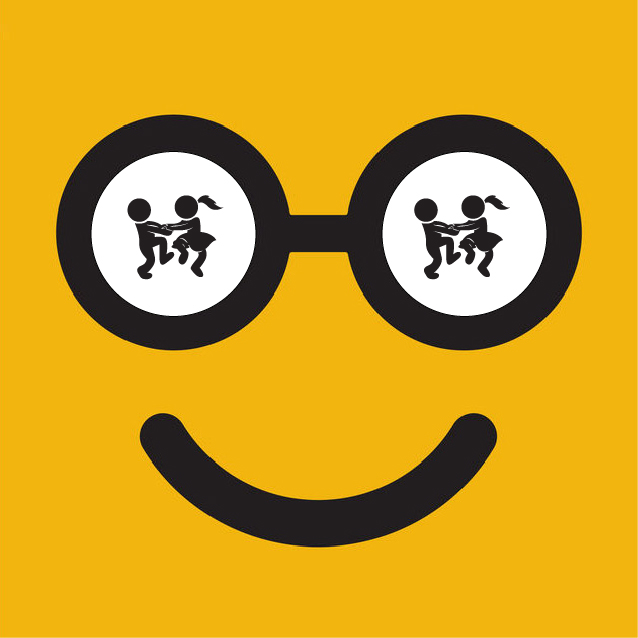
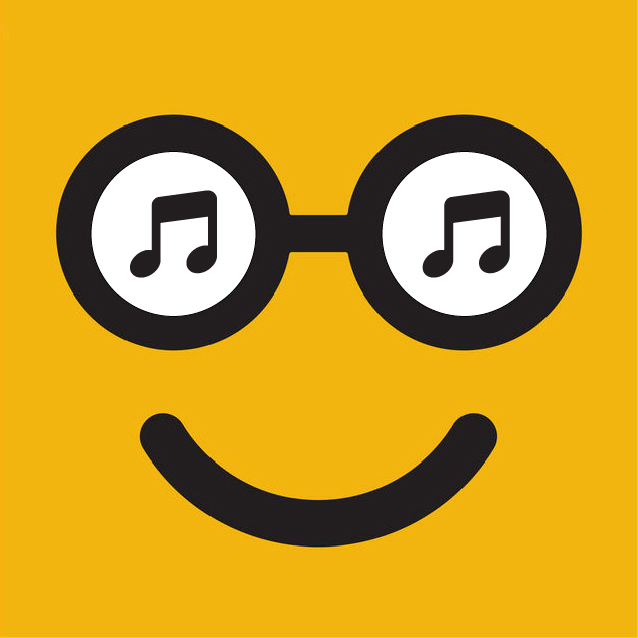
updated faces in client

Changed region(s): [[0.1787, 0.2978, 0.3574, 0.4467], [0.6552, 0.2978, 0.8041, 0.4467]]

diff --git a/server/client/main.html b/server/client/main.html
@@ -9,6 +9,13 @@
   </div>
   {{> main}}
 
+
+      <div class="img-wrap show-together">
+        <img src="faces-01.jpg" class='together'/>
+        <img src="faces-02.jpg" class='lift'/>
+        <img src="faces-03.jpg" class='dance'/>
+      </div>
+
   <div id='footer'>
     2016  - Team Pizza Runner
   </div>
@@ -33,8 +40,10 @@
         <p>Status: offline{{#if status.lastLogin}}, last seen {{lastOnline}} ({{status.lastLogin.ipAddr}}){{/if}}
         <span class='offline-icon'></span></p>
       {{/if}}
-      <div class="img-wrap">
-        <img src="faces-02.jpg" />
+      <div class="img-wrap show-together">  <!-- toggle 'show-together'/'show-lift'/'show-dance' class to the right face -->
+        <img src="faces-01.jpg" class='together'/>
+        <img src="faces-02.jpg" class='lift'/>
+        <img src="faces-03.jpg" class='dance'/>
       </div>
     </div>
     <div class='message slideDown fadeOut'> <!-- toggle 'fadeOut' class to hide and show -->

diff --git a/server/client/main.css b/server/client/main.css
@@ -101,6 +101,22 @@ h2 + p {
 	background: red;
 	border-radius: 8px;
 }
+.img-wrap img {
+	display: none;
+}
+.img-wrap.show-together img.together {
+	display:block;
+}
+
+.img-wrap.show-lift img.lift {
+	display:block;
+}
+
+.img-wrap.show-dance img.dance {
+	display:block;
+}
+
+
 .message {
 	display: block;
 	border-radius: 3em;
